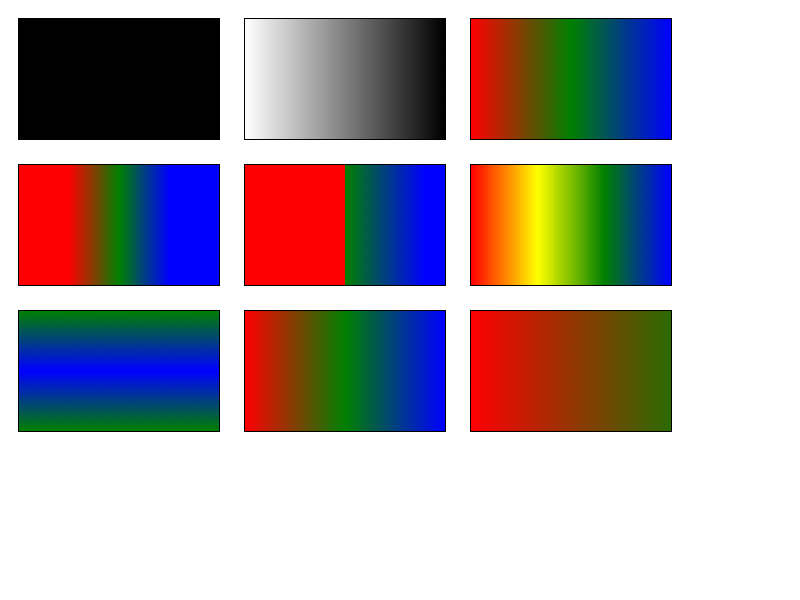
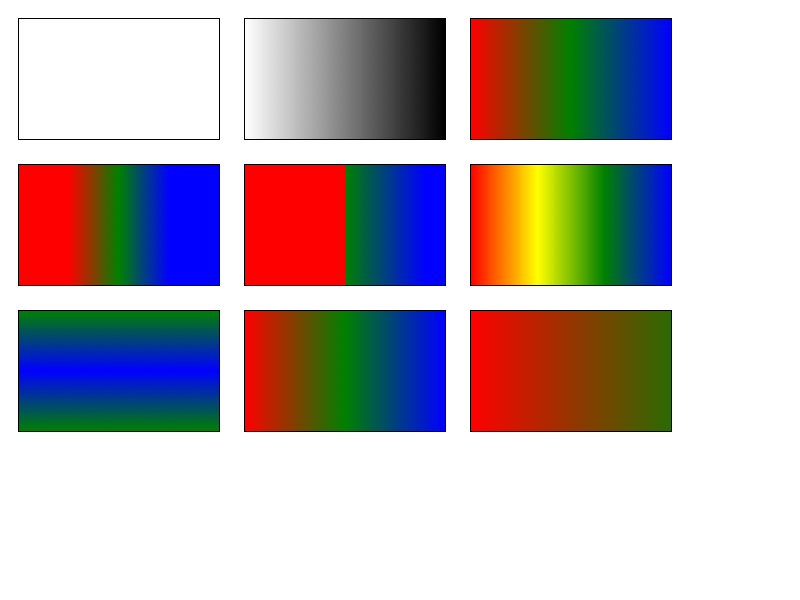
2011-01-12  Simon Fraser  <simon.fraser@apple.com>
Reviewed by Eric Seidel.

        [CSS Gradients] One color stop should not paint anything for linear-gradient
        https://bugs.webkit.org/show_bug.cgi?id=52259

        Share color stop parsing code between linear and radial gradients.
        Consider the gradient invalid if it has less than two color stops.

        * css/CSSParser.cpp:
        (WebCore::CSSParser::parseLinearGradient):
        (WebCore::CSSParser::parseRadialGradient):
        (WebCore::CSSParser::parseGradientColorStops):
        * css/CSSParser.h:

git-svn-id: https://svn.webkit.org/repository/webkit/trunk@75615 268f45cc-cd09-0410-ab3c-d52691b4dbfc

Changed region(s): [[0.0, 0.03, 0.2812, 0.24]]

diff --git a/LayoutTests/fast/gradients/css3-gradient-parsing.html b/LayoutTests/fast/gradients/css3-gradient-parsing.html
@@ -39,14 +39,16 @@ shouldBe('testGradient("background-image: -webkit-linear-gradient(10px 20%, blac
 shouldBe('testGradient("background-image: -webkit-linear-gradient(left left)", "background-image")', '"none"');
 shouldBe('testGradient("background-image: -webkit-linear-gradient(left center)", "background-image")', '"none"');
 shouldBe('testGradient("background-image: -webkit-linear-gradient(left 10deg, black 0%)", "background-image")', '"none"');
-shouldBe('testGradient("background-image: -webkit-linear-gradient(black 0)", "background-image")', '"-webkit-linear-gradient(top, black 0px)"');
-shouldBe('testGradient("background-image: -webkit-linear-gradient(black 0%)", "background-image")', '"-webkit-linear-gradient(top, black 0%)"');
-shouldBe('testGradient("background-image: -webkit-linear-gradient(black 0%)", "background-image")', '"-webkit-linear-gradient(top, black 0%)"');
+shouldBe('testGradient("background-image: -webkit-linear-gradient(black)", "background-image")', '"none"');
+shouldBe('testGradient("background-image: -webkit-linear-gradient(black, white)", "background-image")', '"-webkit-linear-gradient(top, black, white)"');
+shouldBe('testGradient("background-image: -webkit-linear-gradient(black 0, white)", "background-image")', '"-webkit-linear-gradient(top, black 0px, white)"');
+shouldBe('testGradient("background-image: -webkit-linear-gradient(black 0%, white)", "background-image")', '"-webkit-linear-gradient(top, black 0%, white)"');
+shouldBe('testGradient("background-image: -webkit-linear-gradient(black 0%, white)", "background-image")', '"-webkit-linear-gradient(top, black 0%, white)"');
 shouldBe('testGradient("background-image: -webkit-linear-gradient(black, white)", "background-image")', '"-webkit-linear-gradient(top, black, white)"');
 shouldBe('testGradient("background-image: -webkit-linear-gradient(black 10px, white 20px)", "background-image")', '"-webkit-linear-gradient(top, black 10px, white 20px)"');
-shouldBe('testGradient("background-image: -webkit-linear-gradient(top left, black 0%)", "background-image")', '"-webkit-linear-gradient(left top, black 0%)"');
-shouldBe('testGradient("background-image: -webkit-linear-gradient(top, black 0%)", "background-image")', '"-webkit-linear-gradient(top, black 0%)"');
-shouldBe('testGradient("background-image: -webkit-linear-gradient(10deg, black 0%)", "background-image")', '"-webkit-linear-gradient(10deg, black 0%)"');
+shouldBe('testGradient("background-image: -webkit-linear-gradient(top left, black 0%, white)", "background-image")', '"-webkit-linear-gradient(left top, black 0%, white)"');
+shouldBe('testGradient("background-image: -webkit-linear-gradient(top, black 0%, white)", "background-image")', '"-webkit-linear-gradient(top, black 0%, white)"');
+shouldBe('testGradient("background-image: -webkit-linear-gradient(10deg, black 0%, white)", "background-image")', '"-webkit-linear-gradient(10deg, black 0%, white)"');
 
 debug('<p>-webkit-repeating-linear-gradient</p>');
 shouldBe('testGradient("background-image: -webkit-repeating-linear-gradient(black, white)", "background-image")', '"-webkit-repeating-linear-gradient(top, black, white)"');

diff --git a/Source/WebCore/css/CSSParser.cpp b/Source/WebCore/css/CSSParser.cpp
@@ -4911,7 +4911,6 @@ bool CSSParser::parseLinearGradient(RefPtr<CSSValue>& gradient, CSSGradientRepea
         a = args->next();
         expectComma = true;
     } else {
-    
         // Look one or two optional keywords that indicate a side or corner.
         RefPtr<CSSPrimitiveValue> startX, startY;
         
@@ -4950,35 +4949,8 @@ bool CSSParser::parseLinearGradient(RefPtr<CSSValue>& gradient, CSSGradientRepea
         result->setFirstY(startY.release());
     }
 
-    // Now look for 0 or more color stops.
-    while (a) {
-        // Look for the comma before the next stop.
-        if (expectComma) {
-            if (a->unit != CSSParserValue::Operator || a->iValue != ',')
-                return false;
-
-            a = args->next();
-            if (!a)
-                return false;
-        }
-
-        // <color-stop> = <color> [ <percentage> | <length> ]?
-        CSSGradientColorStop stop;
-        stop.m_color = parseGradientColorOrKeyword(this, a);
-        if (!stop.m_color)
-            return false;
-
-        a = args->next();
-        if (a) {
-            if (validUnit(a, FLength | FPercent, m_strict)) {
-                stop.m_position = CSSPrimitiveValue::create(a->fValue, (CSSPrimitiveValue::UnitTypes)a->unit);
-                a = args->next();
-            }
-        }
-        
-        result->addStop(stop);
-        expectComma = true;
-    }
+    if (!parseGradientColorStops(args, result.get(), expectComma))
+        return false;
 
     Vector<CSSGradientColorStop>& stops = result->stops();
     if (stops.isEmpty())
@@ -5098,14 +5070,25 @@ bool CSSParser::parseRadialGradient(RefPtr<CSSValue>& gradient, CSSGradientRepea
     result->setEndHorizontalSize(horizontalSize);
     result->setEndVerticalSize(verticalSize);
 
-    // Now look for 0 or more color stops.
+    if (!parseGradientColorStops(args, result.get(), expectComma))
+        return false;
+
+    gradient = result.release();
+    return true;
+}
+
+bool CSSParser::parseGradientColorStops(CSSParserValueList* valueList, CSSGradientValue* gradient, bool expectComma)
+{
+    CSSParserValue* a = valueList->current();
+
+    // Now look for color stops.
     while (a) {
         // Look for the comma before the next stop.
         if (expectComma) {
             if (a->unit != CSSParserValue::Operator || a->iValue != ',')
                 return false;
 
-            a = args->next();
+            a = valueList->next();
             if (!a)
                 return false;
         }
@@ -5116,24 +5099,20 @@ bool CSSParser::parseRadialGradient(RefPtr<CSSValue>& gradient, CSSGradientRepea
         if (!stop.m_color)
             return false;
 
-        a = args->next();
+        a = valueList->next();
         if (a) {
             if (validUnit(a, FLength | FPercent, m_strict)) {
                 stop.m_position = CSSPrimitiveValue::create(a->fValue, (CSSPrimitiveValue::UnitTypes)a->unit);
-                a = args->next();
+                a = valueList->next();
             }
         }
         
-        result->addStop(stop);
+        gradient->addStop(stop);
         expectComma = true;
     }
 
-    Vector<CSSGradientColorStop>& stops = result->stops();
-    if (stops.isEmpty())
-        return false;
-
-    gradient = result.release();
-    return true;
+    // Must have 2 or more stops to be valid.
+    return gradient->stops().size() > 1;
 }
 
 bool CSSParser::isGeneratedImageValue(CSSParserValue* val) const

diff --git a/Source/WebCore/css/CSSParser.h b/Source/WebCore/css/CSSParser.h
@@ -160,6 +160,7 @@ namespace WebCore {
         bool parseDeprecatedGradient(RefPtr<CSSValue>&);
         bool parseLinearGradient(RefPtr<CSSValue>&, CSSGradientRepeat repeating);
         bool parseRadialGradient(RefPtr<CSSValue>&, CSSGradientRepeat repeating);
+        bool parseGradientColorStops(CSSParserValueList*, CSSGradientValue*, bool expectComma);
 
         PassRefPtr<CSSValueList> parseTransform();
         bool parseTransformOrigin(int propId, int& propId1, int& propId2, int& propId3, RefPtr<CSSValue>&, RefPtr<CSSValue>&, RefPtr<CSSValue>&);
